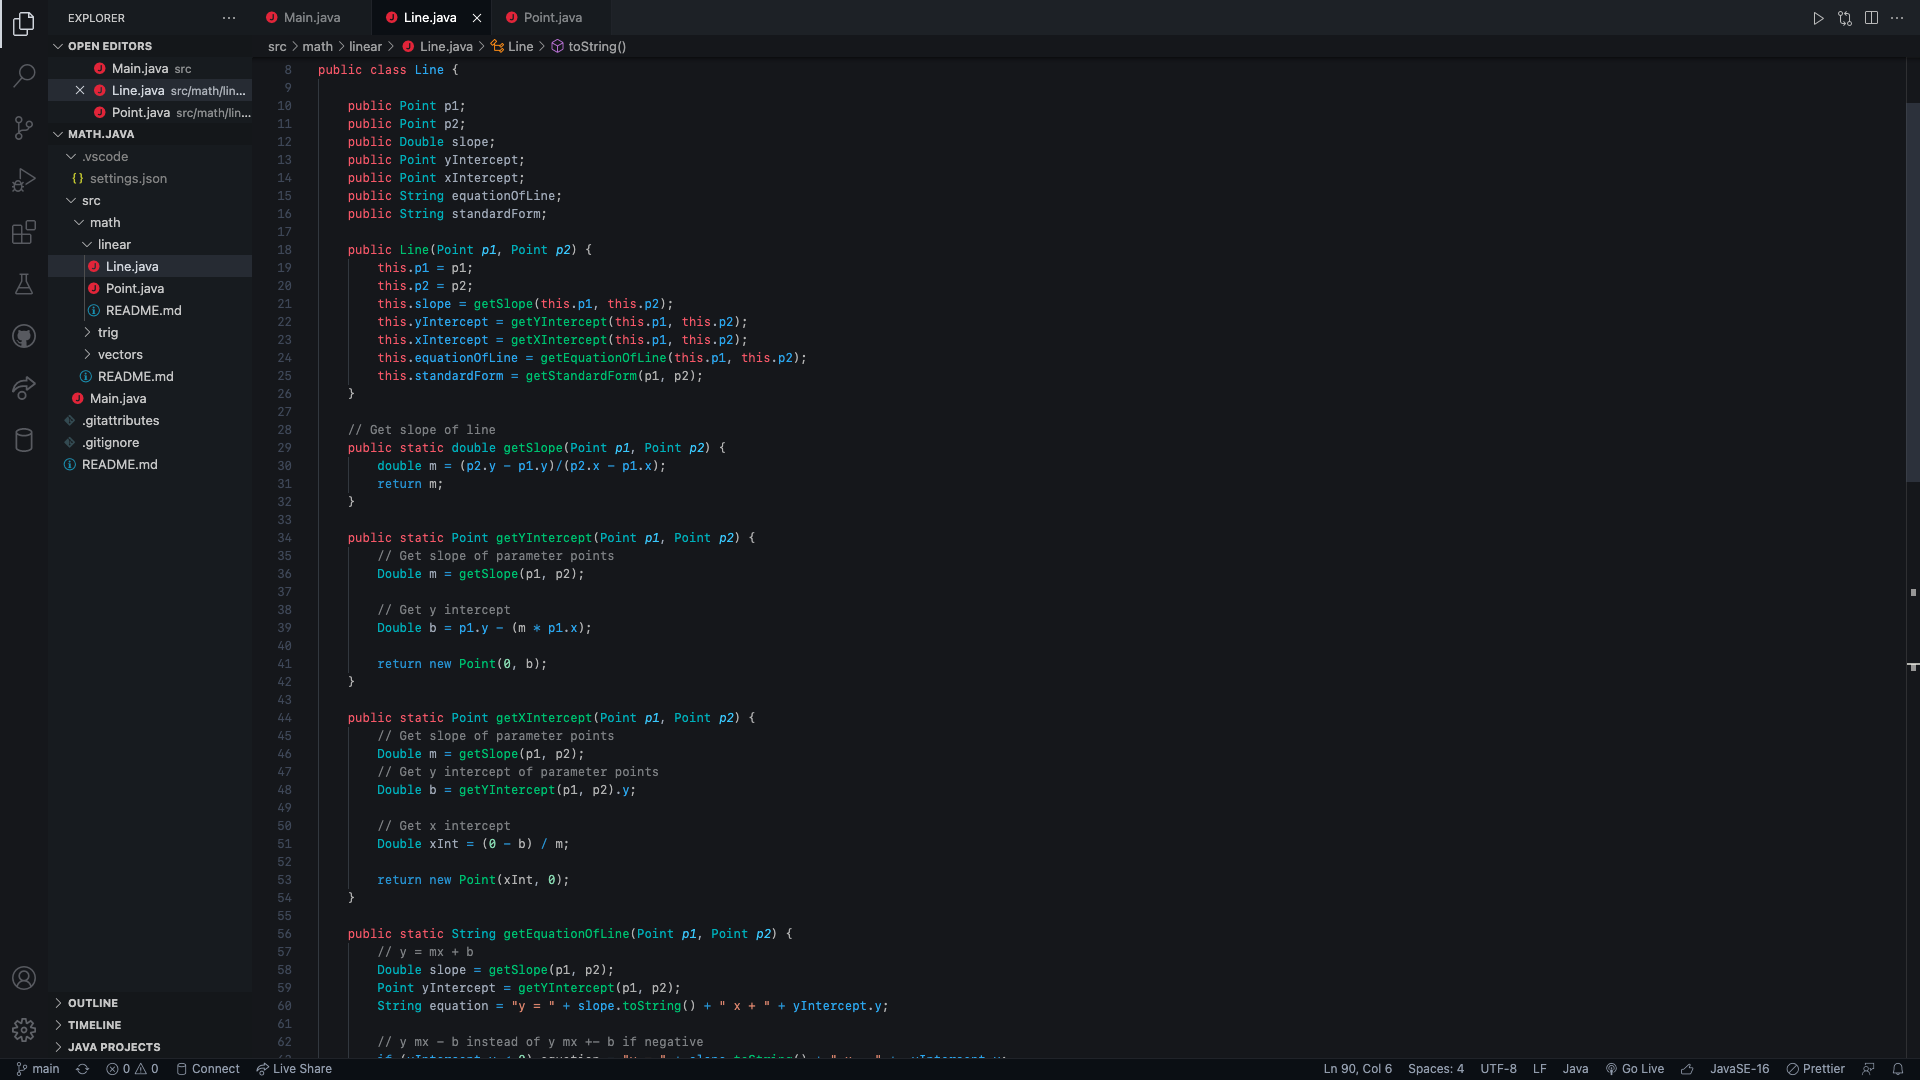
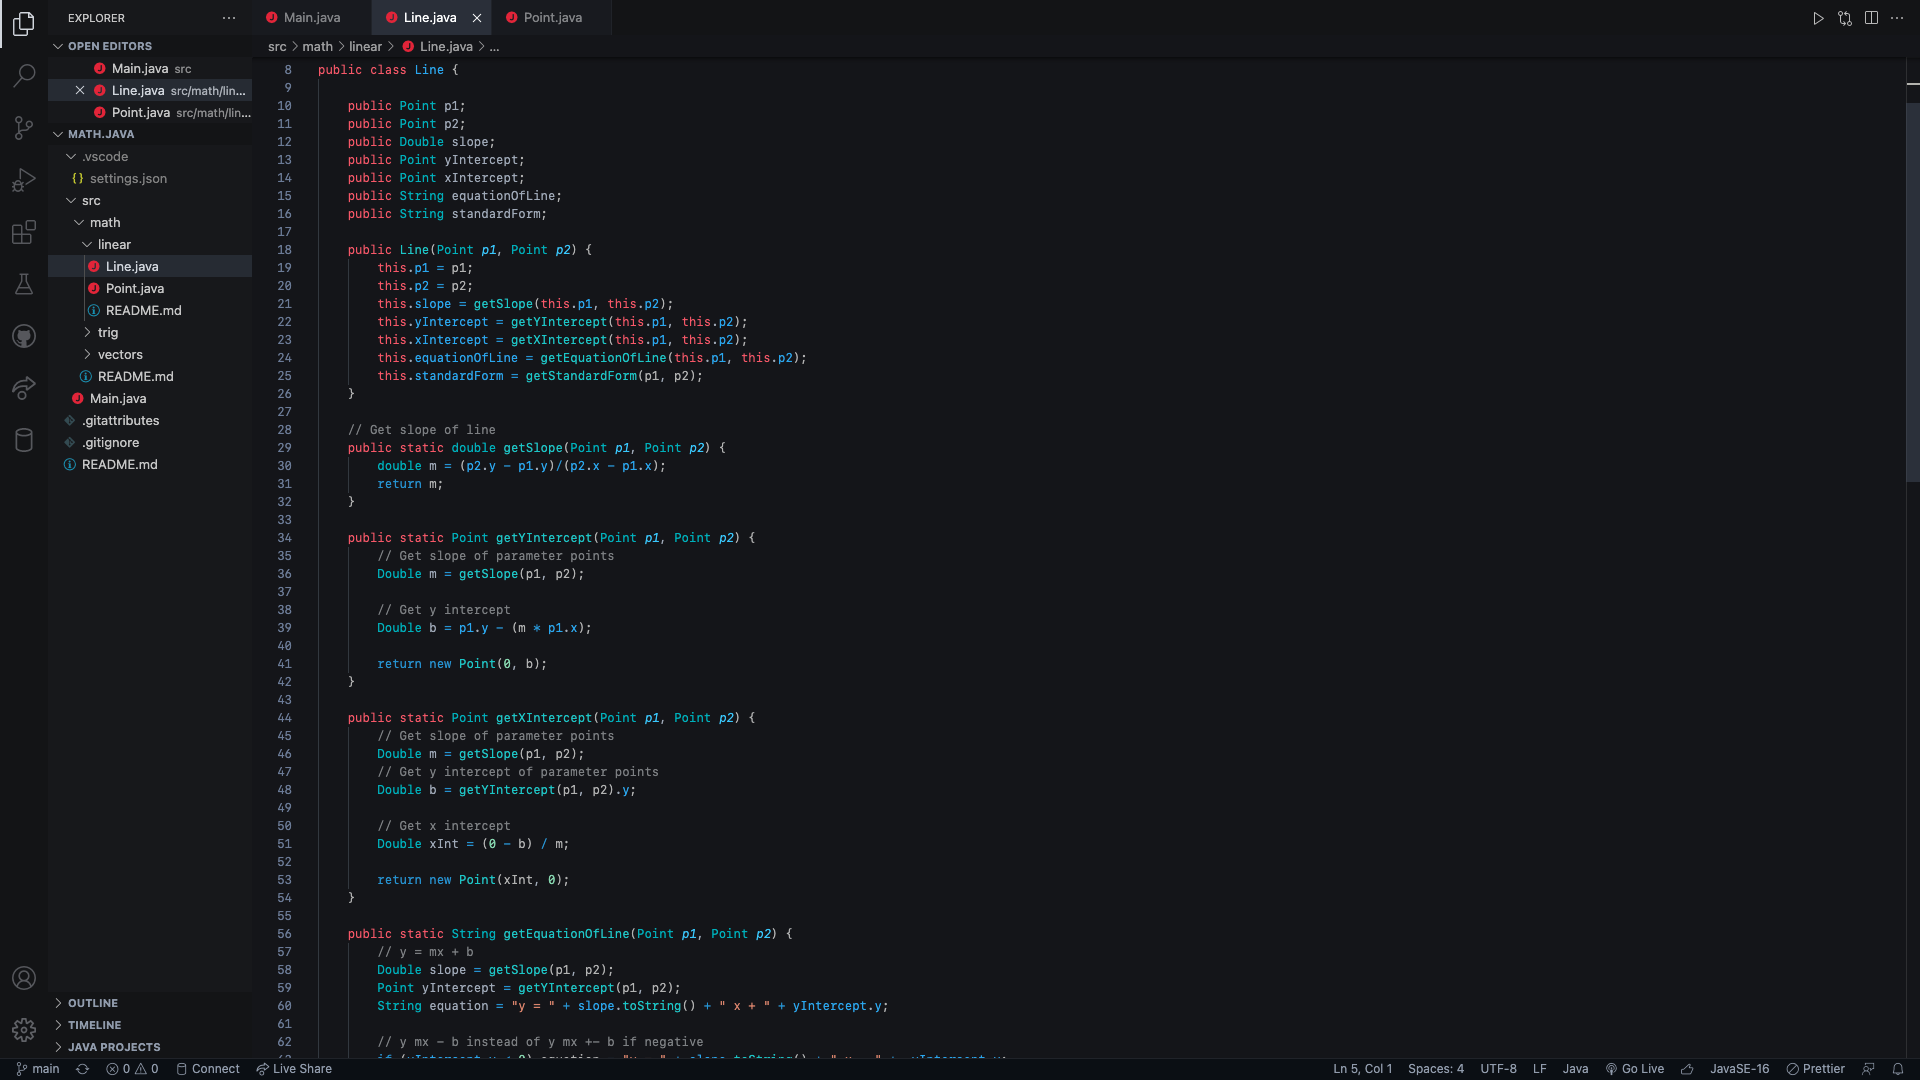
v0.0.2 (#1)
* Modify theme

- Make colours darker & more consistent/minimalistic

- Customize more colours of VSCode

- Alphabetize JSON

* Update CHANGELOG.md

* Update package.json

* Update theme_screenshot.png

* Update README.md

diff --git a/README.md b/README.md
@@ -1,6 +1,7 @@
 # Jason VSCode Theme
 
-This is a custom theme made by [Jason](https://jasonli0616.dev). It is inspired by One Monokai and VSCode Dark+, and it is designed to be a minimalistic dark theme.
+This is a custom theme designed to be a minimalistic dark theme.\
+It is inspired by the [One Monokai](https://marketplace.visualstudio.com/items?itemName=azemoh.one-monokai) theme and the default VSCode Dark+ theme.
 
 [VSCode Extension](https://marketplace.visualstudio.com/items?itemName=jasonli0616.jason-vscode-theme)\
 [GitHub Repo](https://github.com/jasonli0616/jason-vscode-theme)

diff --git a/CHANGELOG.md b/CHANGELOG.md
@@ -2,5 +2,9 @@
 
 All notable changes to the "jason-vscode-theme" extension will be documented in this file.
 
+## Version 0.0.2
+- Make colours darker & more consistent/minimalistic
+- Customize more colours of VSCode
+
 ## Version 0.0.1
 - Initial version of Jason VSCode Theme
